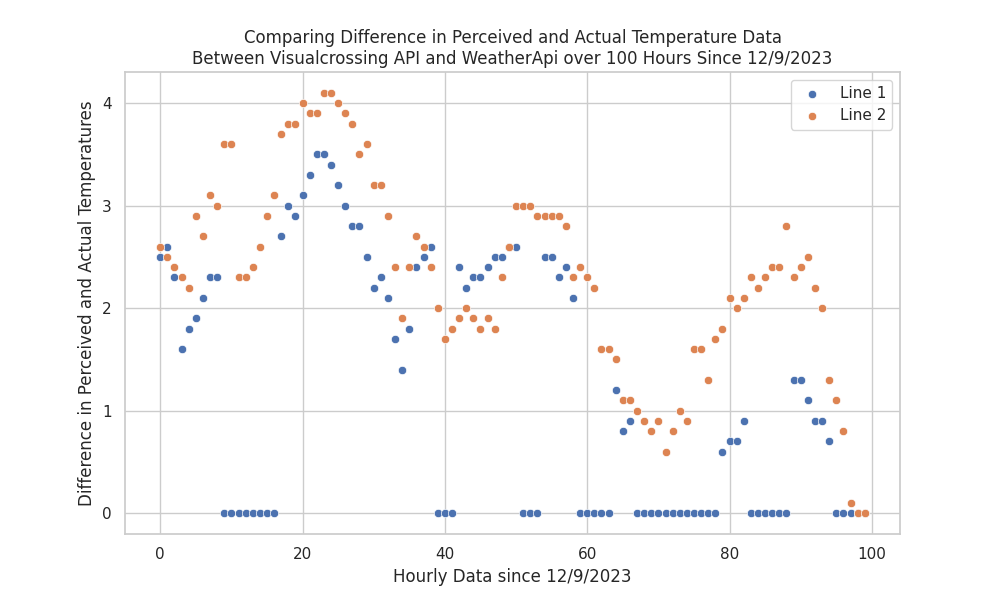
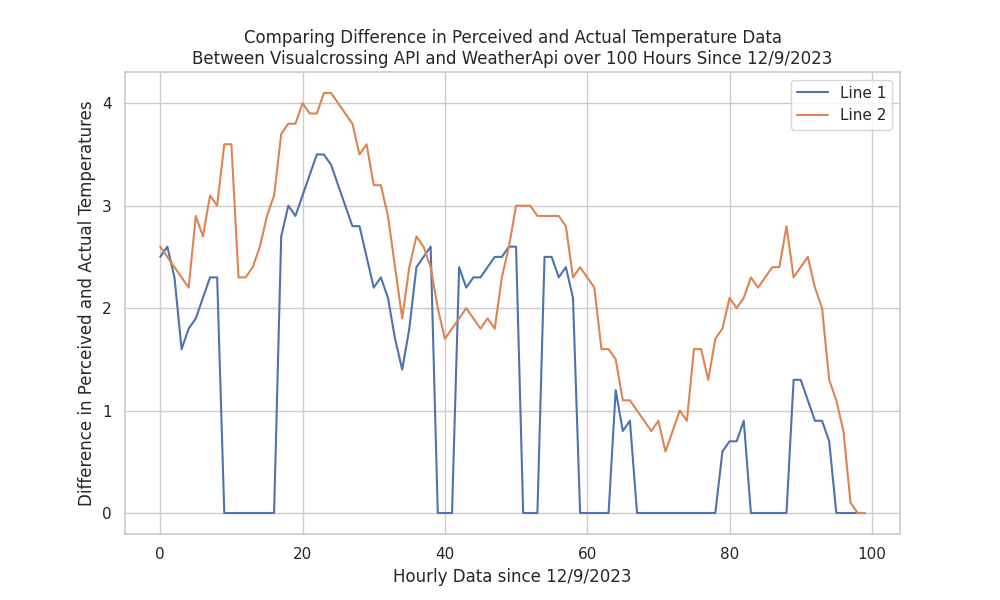
code

diff --git a/difference_vis.py b/difference_vis.py
@@ -21,9 +21,9 @@
 # sns.lineplot(x=time, y=vs, label='Line 1')
 # sns.lineplot(x=time, y=wa, label='Line 2')
 
-# plt.xlabel('Hourly Data')
+# plt.xlabel('Hourly Data since 12/9/2023')
 # plt.ylabel('Difference in Perceived and Actual Temperatures')
-# plt.title('Two Line Graphs')
+# plt.title('Comparing Difference in Perceived and Actual Temperature Data\nBetween Visualcrossing API and WeatherApi over 100 Hours Since 12/9/2023')
 # plt.legend()
 
 # plt.savefig('difference.png')

diff --git a/average_vis.py b/average_vis.py
@@ -14,10 +14,9 @@ time, val = read_data(file_path)
 
 plt.plot(time, val)
 
-plt.xlabel('Hourly Data')
+plt.xlabel('Hourly Data since 12/9/2023')
 plt.ylabel('Average Wind Speed')
-plt.title('Line Graph showing hourly variations in average wind speed')
-plt.legend()
+plt.title('Comparing Average Difference in Wind Speed Between\nVisualcrossing API and WeatherApi Over 100 Hours since 12/9/2023')
 
-# Show the plot
-plt.show()
+plt.savefig('avg_line.png')
+plt.close()

diff --git a/avg_wind.py b/avg_wind.py
@@ -12,7 +12,10 @@ for entry in result:
     avg = (entry[1]+entry[2])/2
     avg_list.append((entry[0], avg))
 print(avg_list)
+avg_list = sorted(avg_list, key=lambda x: x[0])
 file_path = 'average.txt'
+i = 0
 with open(file_path, 'w') as file:
     for item in avg_list:
-        file.write(f"{item[0]}\t{item[1]}\n")
+        file.write(f"{i}\t{item[1]}\n")
+        i += 1
